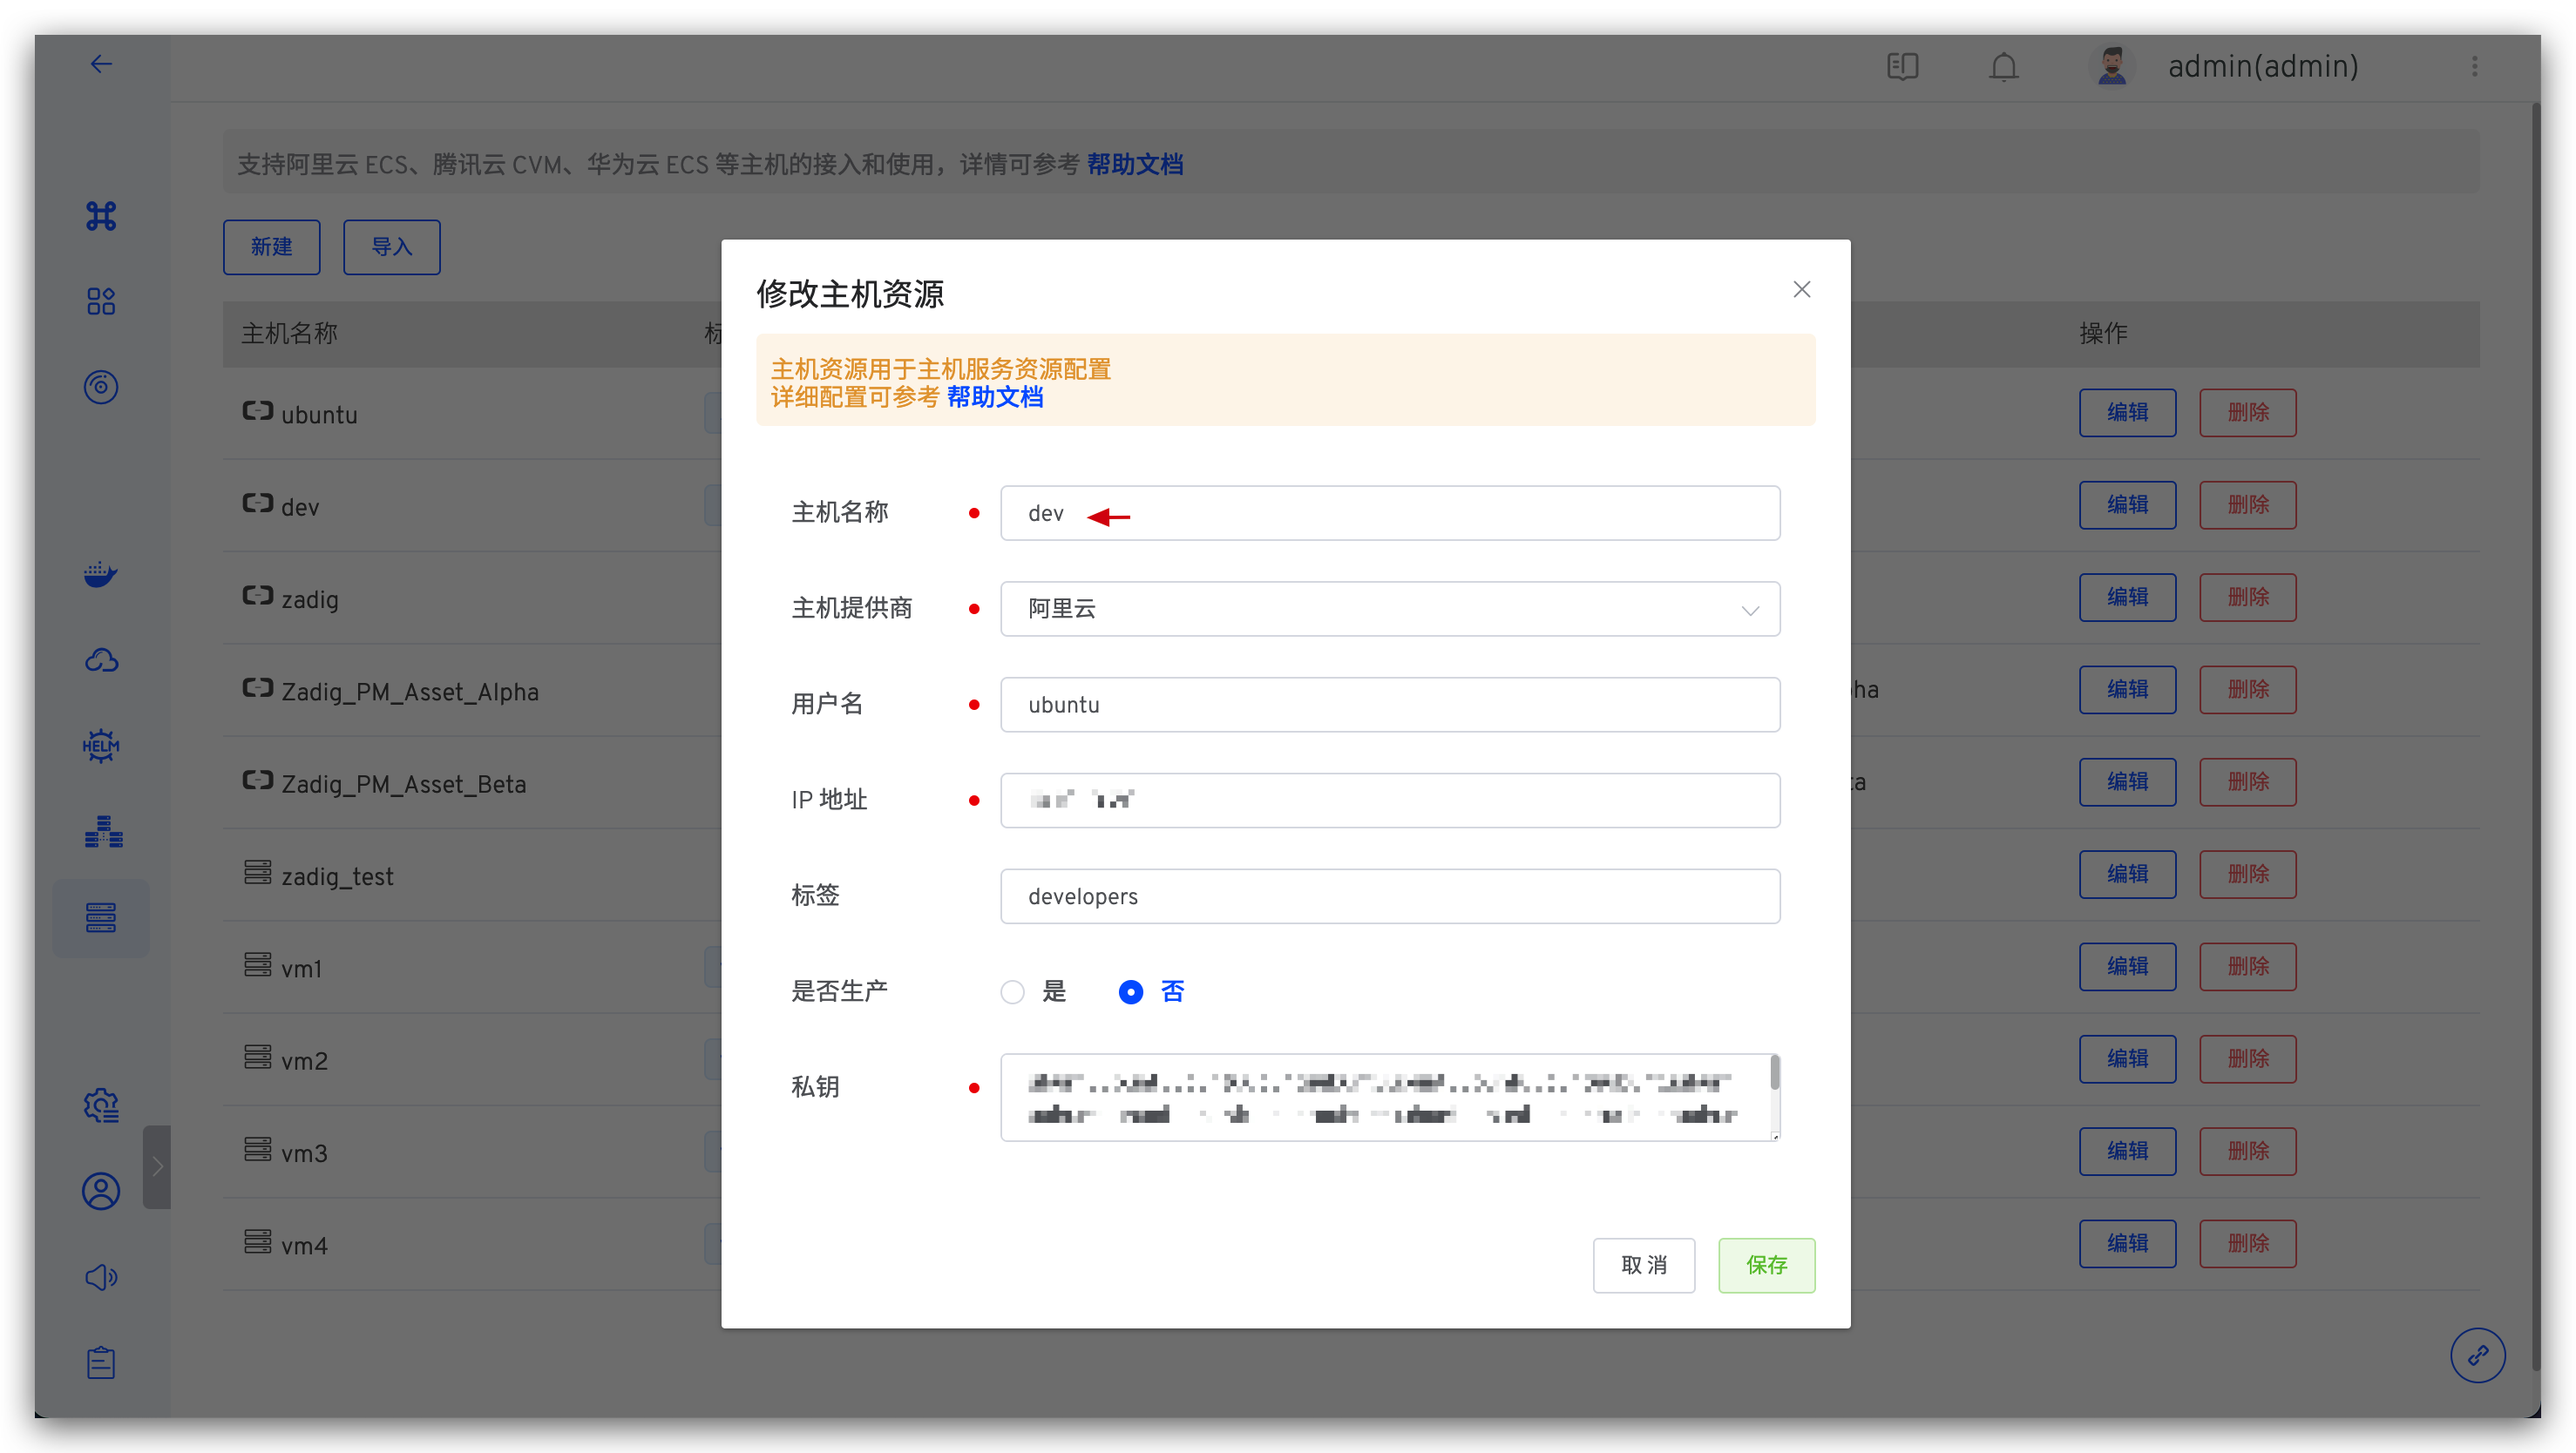
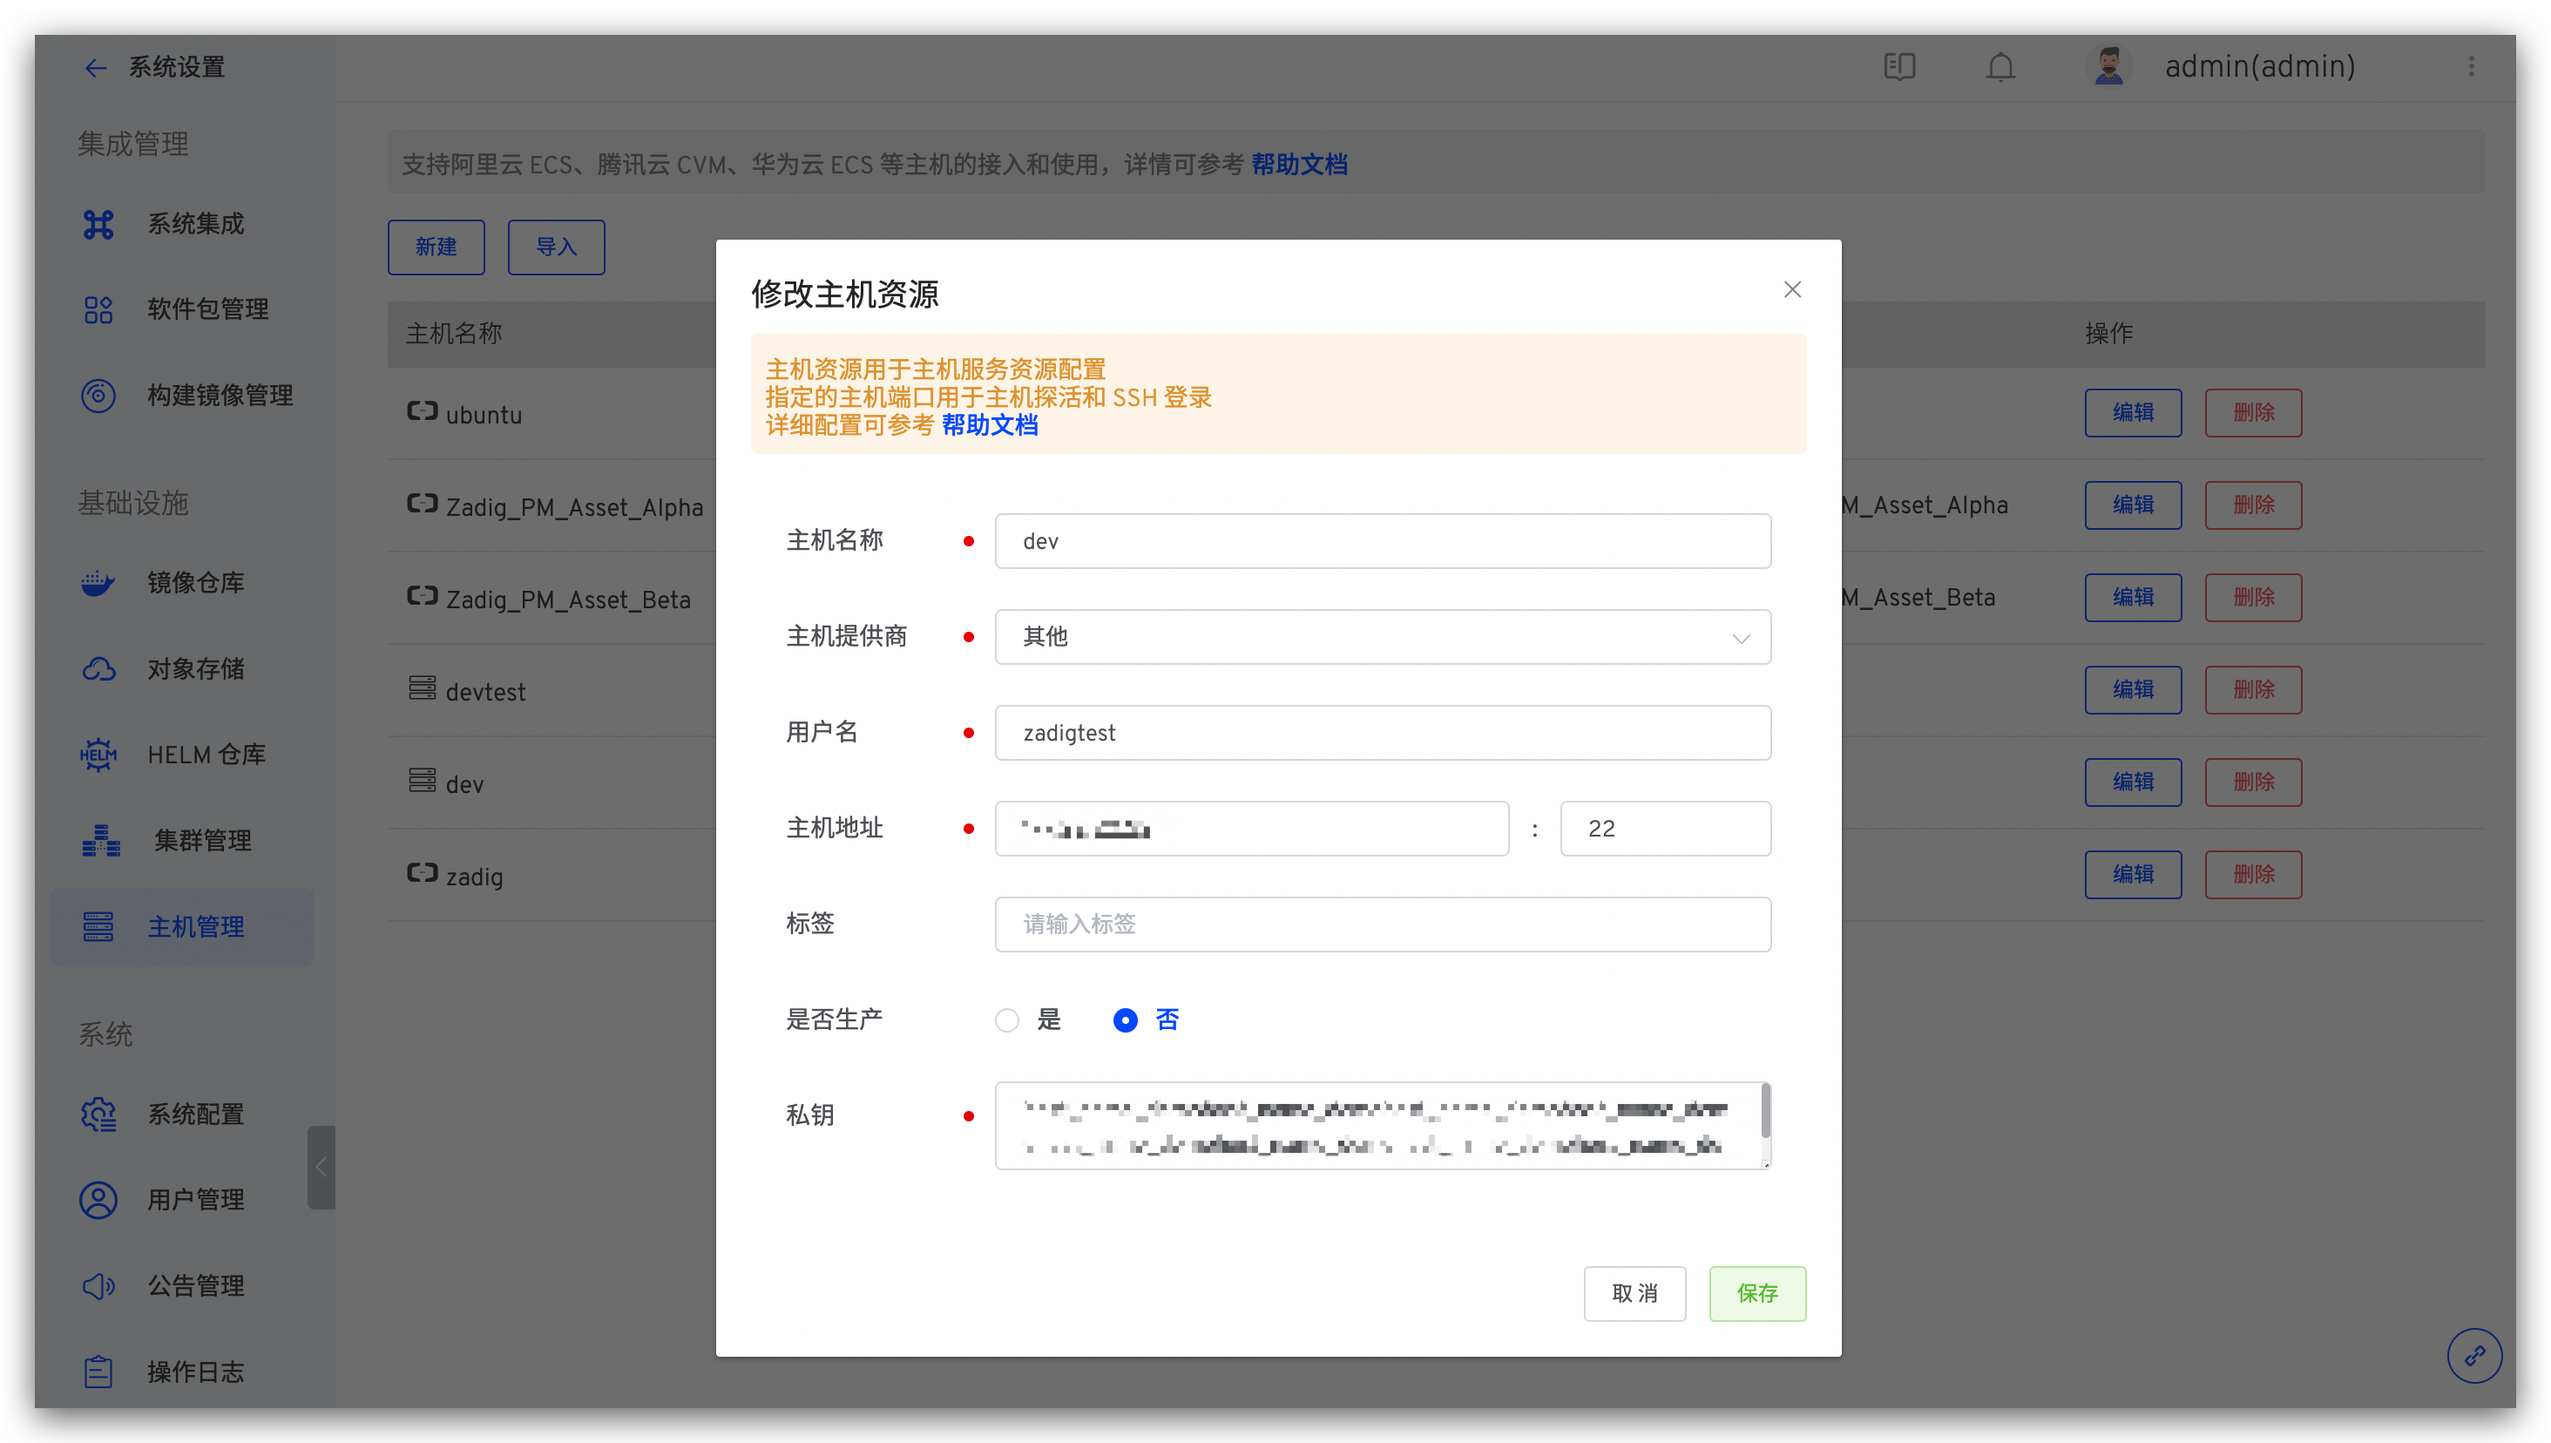
fix comments

diff --git a/dev/04.项目/04.服务/04.vm_service.md b/dev/04.项目/04.服务/04.vm_service.md
@@ -58,7 +58,8 @@ permalink: /dev/project/service/vm/
 
 - `<AGENT_NAME>_PK`：通过 SSH Agent 远程登录主机使用的私钥信息，其中 AGENT_NAME 为 SSH Agent 名称。使用下图例中的主机作为 SSH Agent，则部署脚本中使用 $zadig_PK 即可获得该主机服务器的私钥信息。
 - `<AGENT_NAME>_USERNAME`：通过 SSH Agent 远程登录到主机的用户名称，下图例中即为 $zadig_USERNAME。
-- `<AGENT_NAME>_IP`：SSH Agent 目标服务器的 IP 地址，下图例中即为 $zadig_IP。
+- `<AGENT_NAME>_IP`：SSH Agent 目标服务器的主机地址（不包含端口），下图例中即为 $zadig_IP。
+- `<AGENT_NAME>_PORT`：SSH Agent 目标服务器的主机地址中的端口，下图例中即为 $zadig_PORT。
 
 ![部署脚本](../_images/vm_agent_name.png)
 
@@ -69,7 +70,8 @@ permalink: /dev/project/service/vm/
 
 - `<HOST_NAME>_PK`：HOST_NAME 为具体的主机名称，通过 `<HOST_NAME>_PK` 获得对应主机的私钥信息，下图例中即为 $dev_PK。
 - `<HOST_NAME>_USERNAME`：HOST_NAME 为具体的主机名称，通过 `<HOST_NAME>_USERNAME` 获得对应主机的用户名信息，下图例中即为 $dev_USERNAME。
-- `<HOST_NAME>_IP`：HOST_NAME 为具体的主机名称，通过 `<HOST_NAME>_IP` 获得对应主机的 IP 地址信息，下图例中即为 $dev_IP。
+- `<HOST_NAME>_IP`：HOST_NAME 为具体的主机名称，通过 `<HOST_NAME>_IP` 获得对应主机的地址信息(不含端口)，下图例中即为 $dev_IP。
+- `<HOST_NAME>_PORT`：HOST_NAME 为具体的主机名称，通过 `<HOST_NAME>_PORT` 获得对应主机地址中的端口信息，下图例中即为 $dev_PORT。
 
 ![部署脚本](../_images/host_name_demo.png)
 
@@ -99,7 +101,7 @@ permalink: /dev/project/service/vm/
 
 ## 策略配置
 
-点击`策略`，设置部署服务的超时时间以及交付物命名规则，细节可阅读：[策略配置](/dev/project/k8s/service/#策略配置)。
+点击`策略`，设置部署服务的超时时间以及交付物命名规则，细节可阅读：[策略配置](/dev/project/service/k8s/#策略配置)。
 
 ![策略配置](../_images/vm_service_strategy_config.png)
 

diff --git a/dev/04.项目/04.服务/01.k8s_service.md b/dev/04.项目/04.服务/01.k8s_service.md
@@ -216,18 +216,21 @@ spec:
 
 ![服务策略配置](../_images/service_strategy_config.png)
 
-说明如下：
+### 基本说明
+
 - 服务部署超时设置：将服务部署到环境中的超时时间，默认值为 10 分钟。若超出该阈值服务仍未处于 Running 状态，则视为部署超时。
-- 交付物命名规则设置：自定义该项目中工作流构建产物的命名规则，对当前项目的所有服务都生效，其中 `JENKINS 生成镜像规则`适用于使用 [Jenkins 构建](/dev/project/build/#jenkins-构建) 的服务。可通过以下变量和常量组合的方式设置。
+- 交付物命名规则设置：自定义该项目中工作流构建产物的命名规则，可通过以下[内置变量](#内置变量)和常量组合的方式设置，对当前项目的所有服务都生效。其中 `JENKINS 生成镜像规则`适用于使用 [Jenkins 构建](/dev/project/build/#jenkins-构建) 的服务，不可使用下述[内置变量](#内置变量)中的 `REPO_*` 变量。
+
+### 内置变量
 
 |变量名称|描述|
 |-------|---|
 |`TIMESTAMP`|工作流任务的执行时间戳，形如 `20211029113304`|
 |`TASK_ID`|工作流任务的 ID|
-|`REPO_BRANCH`|构建过程中指定代码仓库使用的分支信息|
-|`REPO_PR`|构建过程中指定代码仓库使用的 Pull Request 信息|
-|`REPO_TAG`|构建过程中指定代码仓库使用的 Tag 信息|
-|`REPO_COMMIT_ID`|构建过程中指定代码仓库使用的 Commit ID 信息|
+|`REPO_BRANCH`|构建过程中指定代码仓库使用的分支信息，JENKINS 生成镜像规则中不适用|
+|`REPO_PR`|构建过程中指定代码仓库使用的 Pull Request 信息，JENKINS 生成镜像规则中不适用|
+|`REPO_TAG`|构建过程中指定代码仓库使用的 Tag 信息，JENKINS 生成镜像规则中不适用|
+|`REPO_COMMIT_ID`|构建过程中指定代码仓库使用的 Commit ID 信息，JENKINS 生成镜像规则中不适用|
 |`PROJECT`|构建所属的 Zadig 项目名称|
 |`SERVICE`|构建编译的服务名称|
 |`ENV_NAME`|构建部署的环境名称|

diff --git a/dev/04.项目/02.workflow.md b/dev/04.项目/02.workflow.md
@@ -71,21 +71,17 @@ permalink: /dev/project/workflow/
 
 ### 分发部署
 
-> 对服务的构建产物进行分发部署操作，目前支持镜像仓库分发和存储空间分发。适用于使用构建部署更新环境并测试通过后，将服务构建产物上传到对象存储中，或部署到其他环境中。
-::: tip 前提
-镜像的分发支持需要管理员提前正确配置[`镜像仓库`](/dev/settings/image-registry/)<br>
-存储空间的分发支持需要管理员提前正确配置[`对象存储`](/dev/settings/object-storage/)
-:::
+将服务的构建产物分发到指定的对象存储/镜像仓库中。在镜像分发方式中，还支持将服务部署更新到指定的环境中，适用于使用构建部署更新环境并测试通过后，使用经过测试验证的服务版本更新新的环境。
 
 ![workflow](./_images/workflow_distribute.png)
 
 参数说明：
 
-- 服务选择：要被执行分发部署的目标服务，可多选
+- 服务选择：要被执行分发或部署的目标服务，可多选
 - 分发方式：包括镜像分发和对象存储分发
 - 对象存储：构建的文件产物（一般为压缩包）被分发的目标对象存储，可在系统设置的 [对象存储](/dev/settings/object-storage) 中查阅
 - 镜像仓库：构建的镜像产物被分发的目标镜像仓库，可在系统设置的 [镜像仓库](/dev/settings/image-registry/) 中查阅
-- 部署到指定环境：将服务部署更新到指定的环境，需要确保指定环境可正常获取到指定镜像仓库中的镜像资源
+- 部署到指定环境：将服务部署更新到指定的环境，需要确保指定环境可正常获取到分发后的镜像资源。仅镜像分发方式中支持此功能
 
 ## 扩展
 > 通过配置扩展模块，可以和外部系统对接对系统事件进行 Hook，外部系统接收请求后，可以按需自定义一些操作。

diff --git a/dev/04.项目/04.服务/02.helm_chart_service.md b/dev/04.项目/04.服务/02.helm_chart_service.md
@@ -257,7 +257,7 @@ deploy:
 ![删除服务](../_images/helm_chart_git_delete.png)
 
 ## 策略配置
-在策略中设置部署服务的超时时间以及交付物命名规则。细节可阅读：[策略配置](/dev/project/k8s/service/#策略配置)。
+在策略中设置部署服务的超时时间以及交付物命名规则。细节可阅读：[策略配置](/dev/project/service/k8s/#策略配置)。
 
 ![服务策略配置](../_images/helm_service_strategy_config.png)
 

diff --git a/dev/04.项目/04.服务/03.k8s_host_service.md b/dev/04.项目/04.服务/03.k8s_host_service.md
@@ -23,7 +23,7 @@ permalink: /dev/project/service/k8s/host/
 
 ## 策略配置
 
-在策略中设置部署服务的超时时间以及交付物命名规则。细节可阅读：[策略配置](/dev/project/k8s/service/#策略配置)。
+在策略中设置部署服务的超时时间以及交付物命名规则。细节可阅读：[策略配置](/dev/project/service/k8s/#策略配置)。
 
 ![服务策略配置](../_images/host_service_strategy_config.png)
 

diff --git a/dev/12.系统设置/12.machine_manage.md b/dev/12.系统设置/12.machine_manage.md
@@ -23,7 +23,7 @@ permalink: /dev/settings/vm-management/
 参数说明：
 - `主机名称`：自定义，用于标识主机的名称
 - `用户名`：主机的 username
-- `IP 地址`：主机的访问地址
+- `主机地址`：主机的访问地址及端口，端口值默认为 22
 - `标签`：自定义，主机标签
 - `私钥`：SSH 访问私钥。通过 ssh-keygen -t rsa -C "your_email@example.com" 方式生成
 
